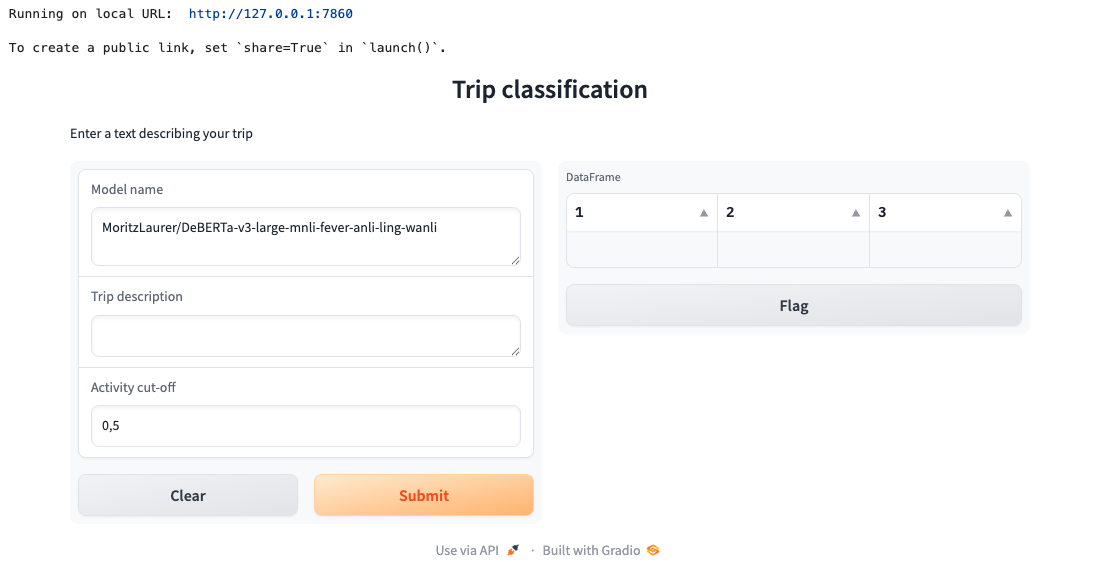
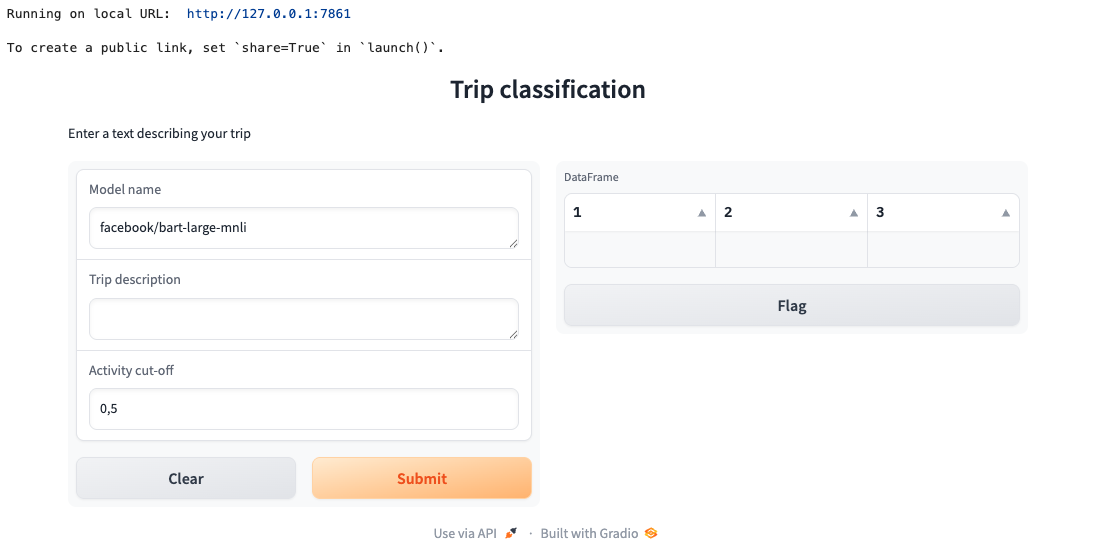
edited model implemenation

diff --git a/blog_post/article.md b/blog_post/article.md
@@ -110,7 +110,7 @@ This worked great! However, using API the functionality is limited. We were limi
 
 ### Model implementation: Anja
 
-Now we load the model locally and work with some more functionality. We load necessary libraries and our class labels from a json file. We created several *superclasses* which each contain a list of possible class labels for our trip. We will use a different zero-shot-classification model for each superclass.
+Now we load the model locally and work with additional functionality. We import the required libraries and load our class labels from a JSON file. The last code block prints out these classes, sorted into several *superclasses*. For each superclass, we will use a dedicated zero-shot classification model and therefore get a list of relevant class labels for out trip.
 
 ```python
 import pandas as pd
@@ -118,7 +118,6 @@ import matplotlib.pyplot as plt
 from tabulate import tabulate
 from transformers import pipeline
 
-# Get candidate labels
 with open("packing_label_structure.json", "r") as file:
     candidate_labels = json.load(file)
 keys_list = list(candidate_labels.keys())
@@ -225,7 +224,7 @@ trip_length_days :
 	 7+ days
 ```
 
-Now we use the pipeline function to load the model from Hugging Face and give the classifier function the trip description together with the candidate labels, in this case for the superclass *activity_type*.
+Next, we use the pipeline function to load the model *facebook/bart-large-mnli* from Hugging Face. After that, we pass the trip description, along with the candidate labels for the *activity_type* superclass, to the classifier and print the output as a pandas DataFrame.
 
 ```python
 model_name = "facebook/bart-large-mnli"
@@ -260,7 +259,7 @@ print(df)
 15               hut trek (winter)  0.002170
 ```
 
-The most likely activity type our model predicted is beach vacation, which is correct! Now we will do this for every superclass and choose the most likely label for our trip, except for the *activities* superclass. Since it is possible and likely to do more than one activity during your trip within the classifier function we set the multi_label option to True. This means that the text can belong to more than one class and each label is evaluated independently and a probability of belonging to that class (vs not belonging to that class) is returned. The activities that we choose as our best guess are those with a probability of more than 50 percent.
+The most likely activity type our model predicted is "beach vacation", which is correct! Now we will do this for every superclass and choose the most likely class label for our trip, except for the *activities* superclass. Because it is possible and likely to engaeg in more than one activity during a trip, we enable the multi_label otion within the classifier function. This means that the text can belong to more than one class. For this, each class label is evaluated independently and a probability of belonging to that class (vs not belonging) is returned. The activities that we select as our best guess are those with a probability of more than 50 percent.
 
 ```python
 cut_off = 0.5
@@ -305,7 +304,7 @@ print(classes)
 ['going to the beach', 'relaxing', 'hiking']
 ```
 
-Now we write a function that does all the predictions for each superclass for a trip description automatically.
+We now write a function that automatically performs all predictions for each superclass based on a given trip description and try it out.
 
 ```python
 def pred_trip(model_name, trip_descr, cut_off = 0.5):
@@ -318,7 +317,7 @@ def pred_trip(model_name, trip_descr, cut_off = 0.5):
     cut_off: cut_off for choosing activities
 
     Returns:
-    pd Dataframe: with class predictions and true values
+    pd Dataframe: with class predictions
     """
     
     classifier = pipeline("zero-shot-classification", model=model_name)
@@ -352,26 +351,18 @@ print(result)
 8    trip_length_days                                 7+ days
 ```
 
-And there we have the predicted labels for our trip description.
+And with that, we obtain the predicted labels for our trip description.
 
-### Using gradio app: Anja
-Now, let's use the Gradio library to wrap our classification function in an interactive interface with inputs and outputs.
+### Gradio App: Anja
+Next, let's use the Gradio library to wrap our classification function in an interactive interface with inputs and outputs. We pass our function pred_trip, along with the input and output formats and some default values, to the gr.Interface function. 
 
 ```python
 import gradio as gr
 
-# get candidate labels
-with open("packing_label_structure.json", "r") as file:
-    candidate_labels = json.load(file)
-keys_list = list(candidate_labels.keys())
-
-```
-
-```python
-emo = gr.Interface(
+demo = gr.Interface(
     fn=pred_trip,
     inputs=[
-        gr.Textbox(label="Model name", value = "MoritzLaurer/DeBERTa-v3-large-mnli-fever-anli-ling-wanli"),
+        gr.Textbox(label="Model name", value = "facebook/bart-large-mnli"),
         gr.Textbox(label="Trip description"),
         gr.Number(label="Activity cut-off", value = 0.5),
     ],
@@ -387,12 +378,15 @@ if __name__ == "__main__":
 
 ```
 
+
 ![Demo of my Gradio app](./img/gradio_pred_trip.png)
+
+The app is now ready to take your trip description and return a list of predicted class labels for your trip.
 
 
 ### Share your model: Anja
 **Hugging Face Spaces**
-A straightforward way to share the model with other people is to use Hugging Face Spaces, where you can create a free Space which you can potentially expand on later. Go to https://huggingface.co/spaces and click on "+ New Space", as SDK choose Gradio and as template Blank, as Space hardware choose "CPU Basic", and click on "Create Space" to create your Space.
+A simple way to share your model with others is to use Hugging Face Spaces, where you can create a free Space that can expanded later. Go to https://huggingface.co/spaces and click on "+ New Space", as SDK choose Gradio and as template Blank, as Space hardware choose "CPU Basic", and click on "Create Space" to create your Space.
 Connected to your space is a remote git repository which is a smooth way to push your model code to the Space. Once the Sapce is created you will see the url of your Space and some instructions of how to set it up.
 
 ```bash
